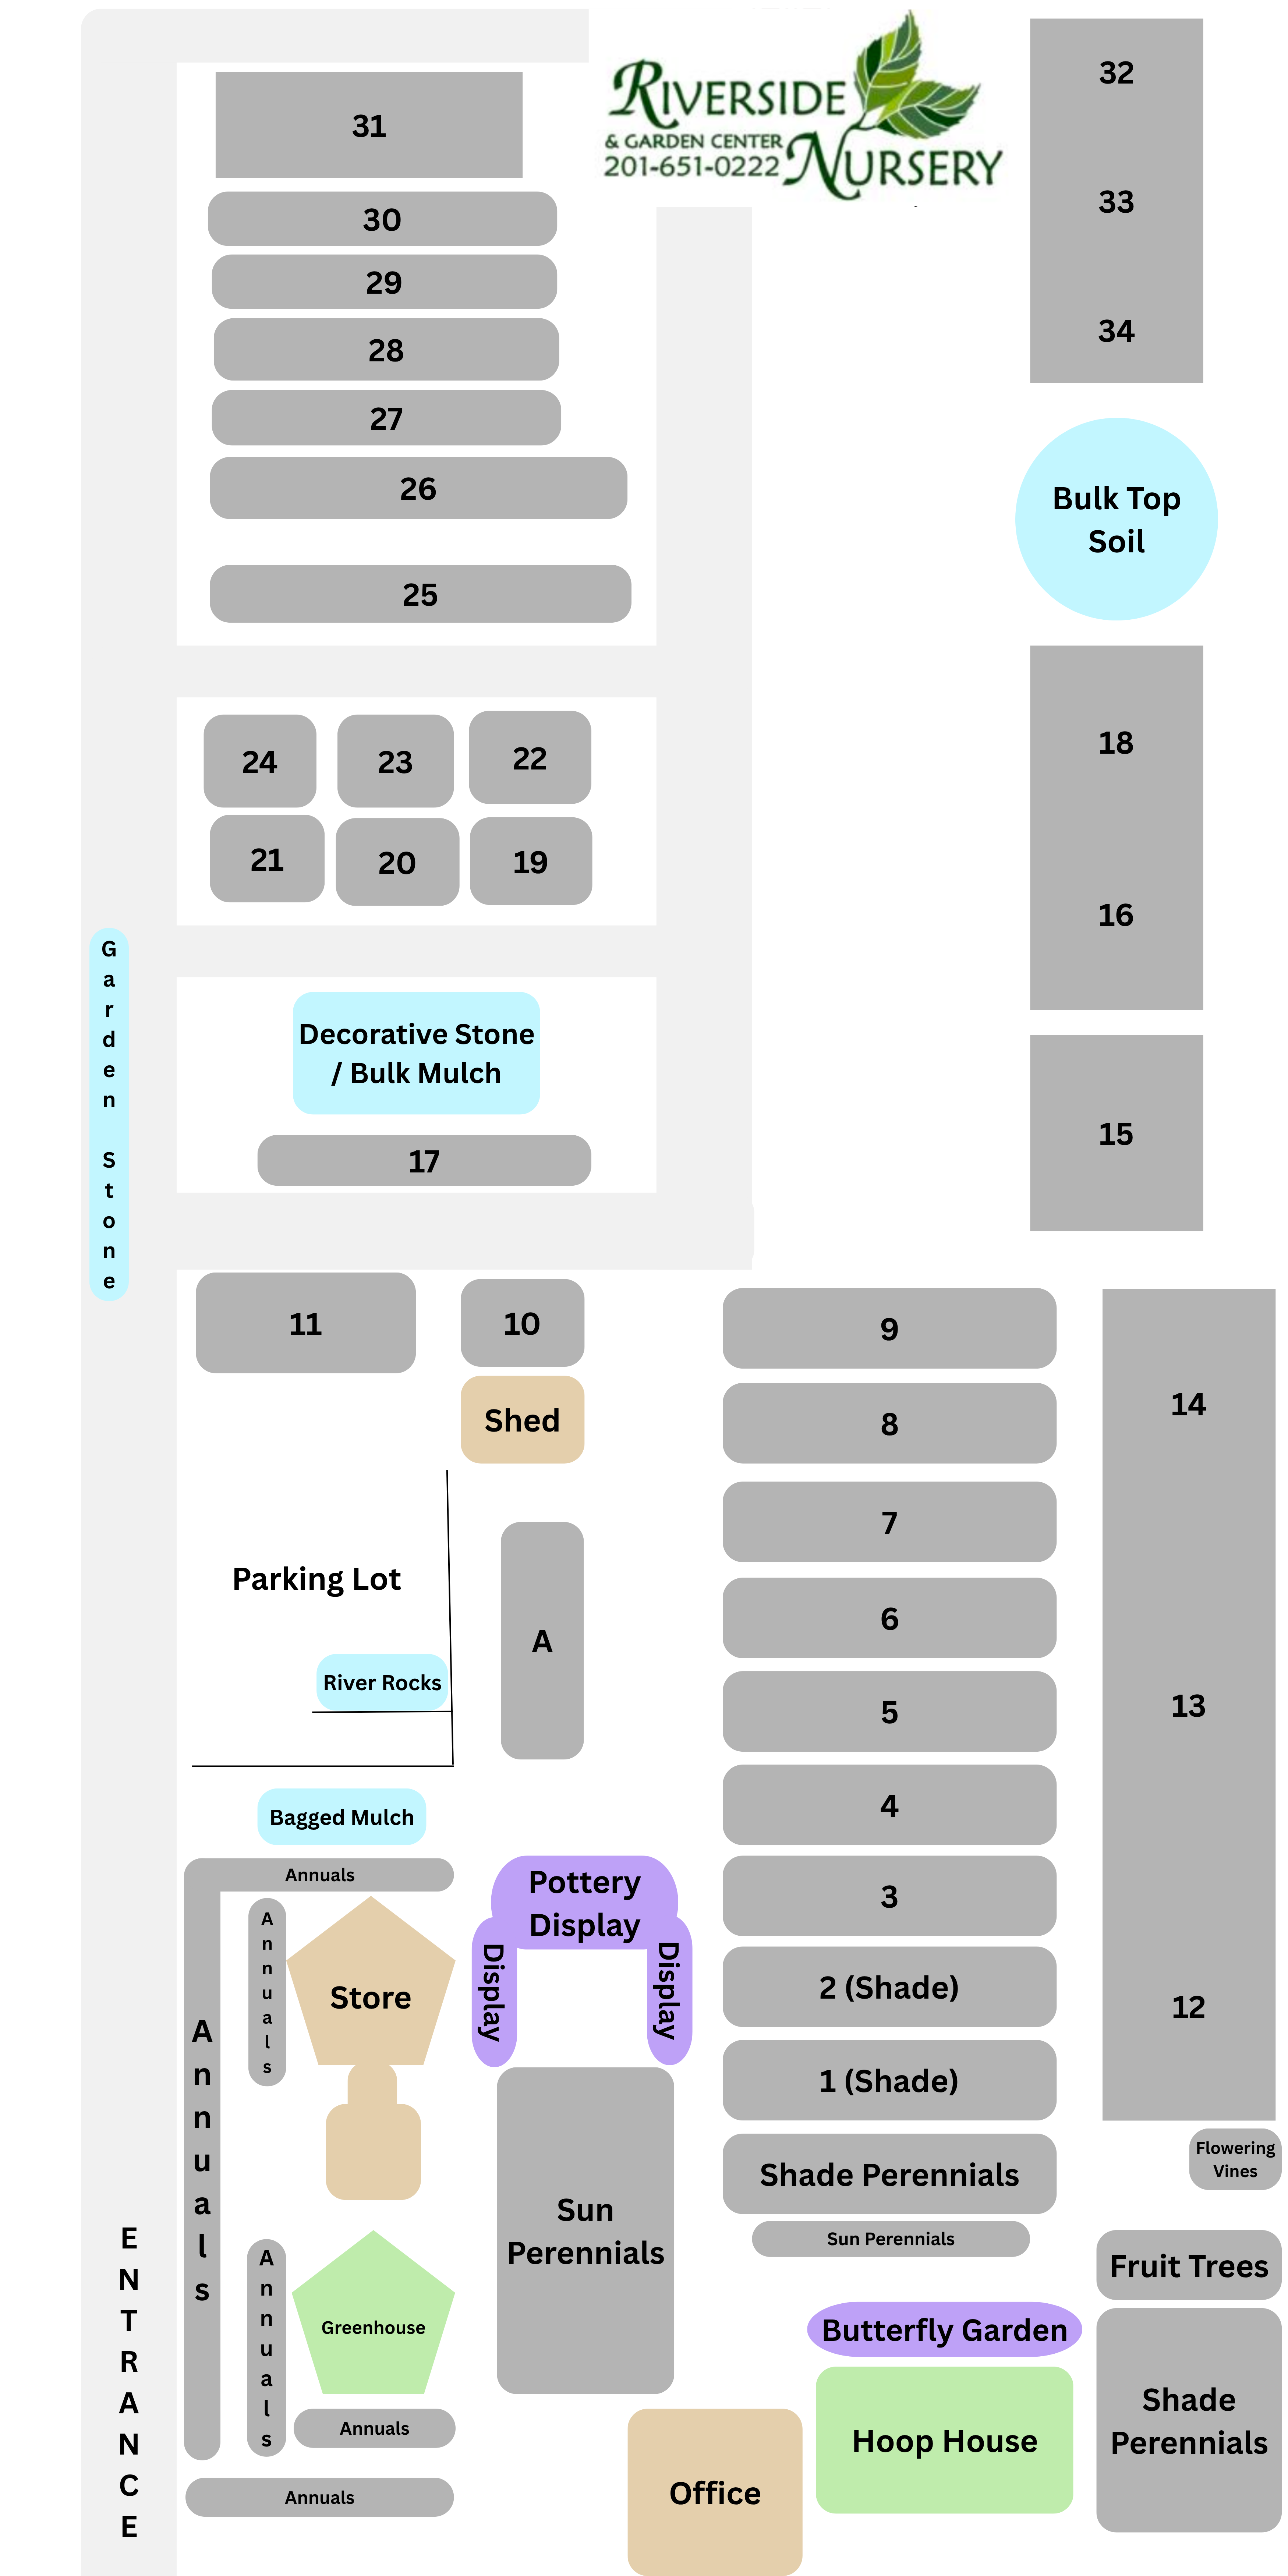
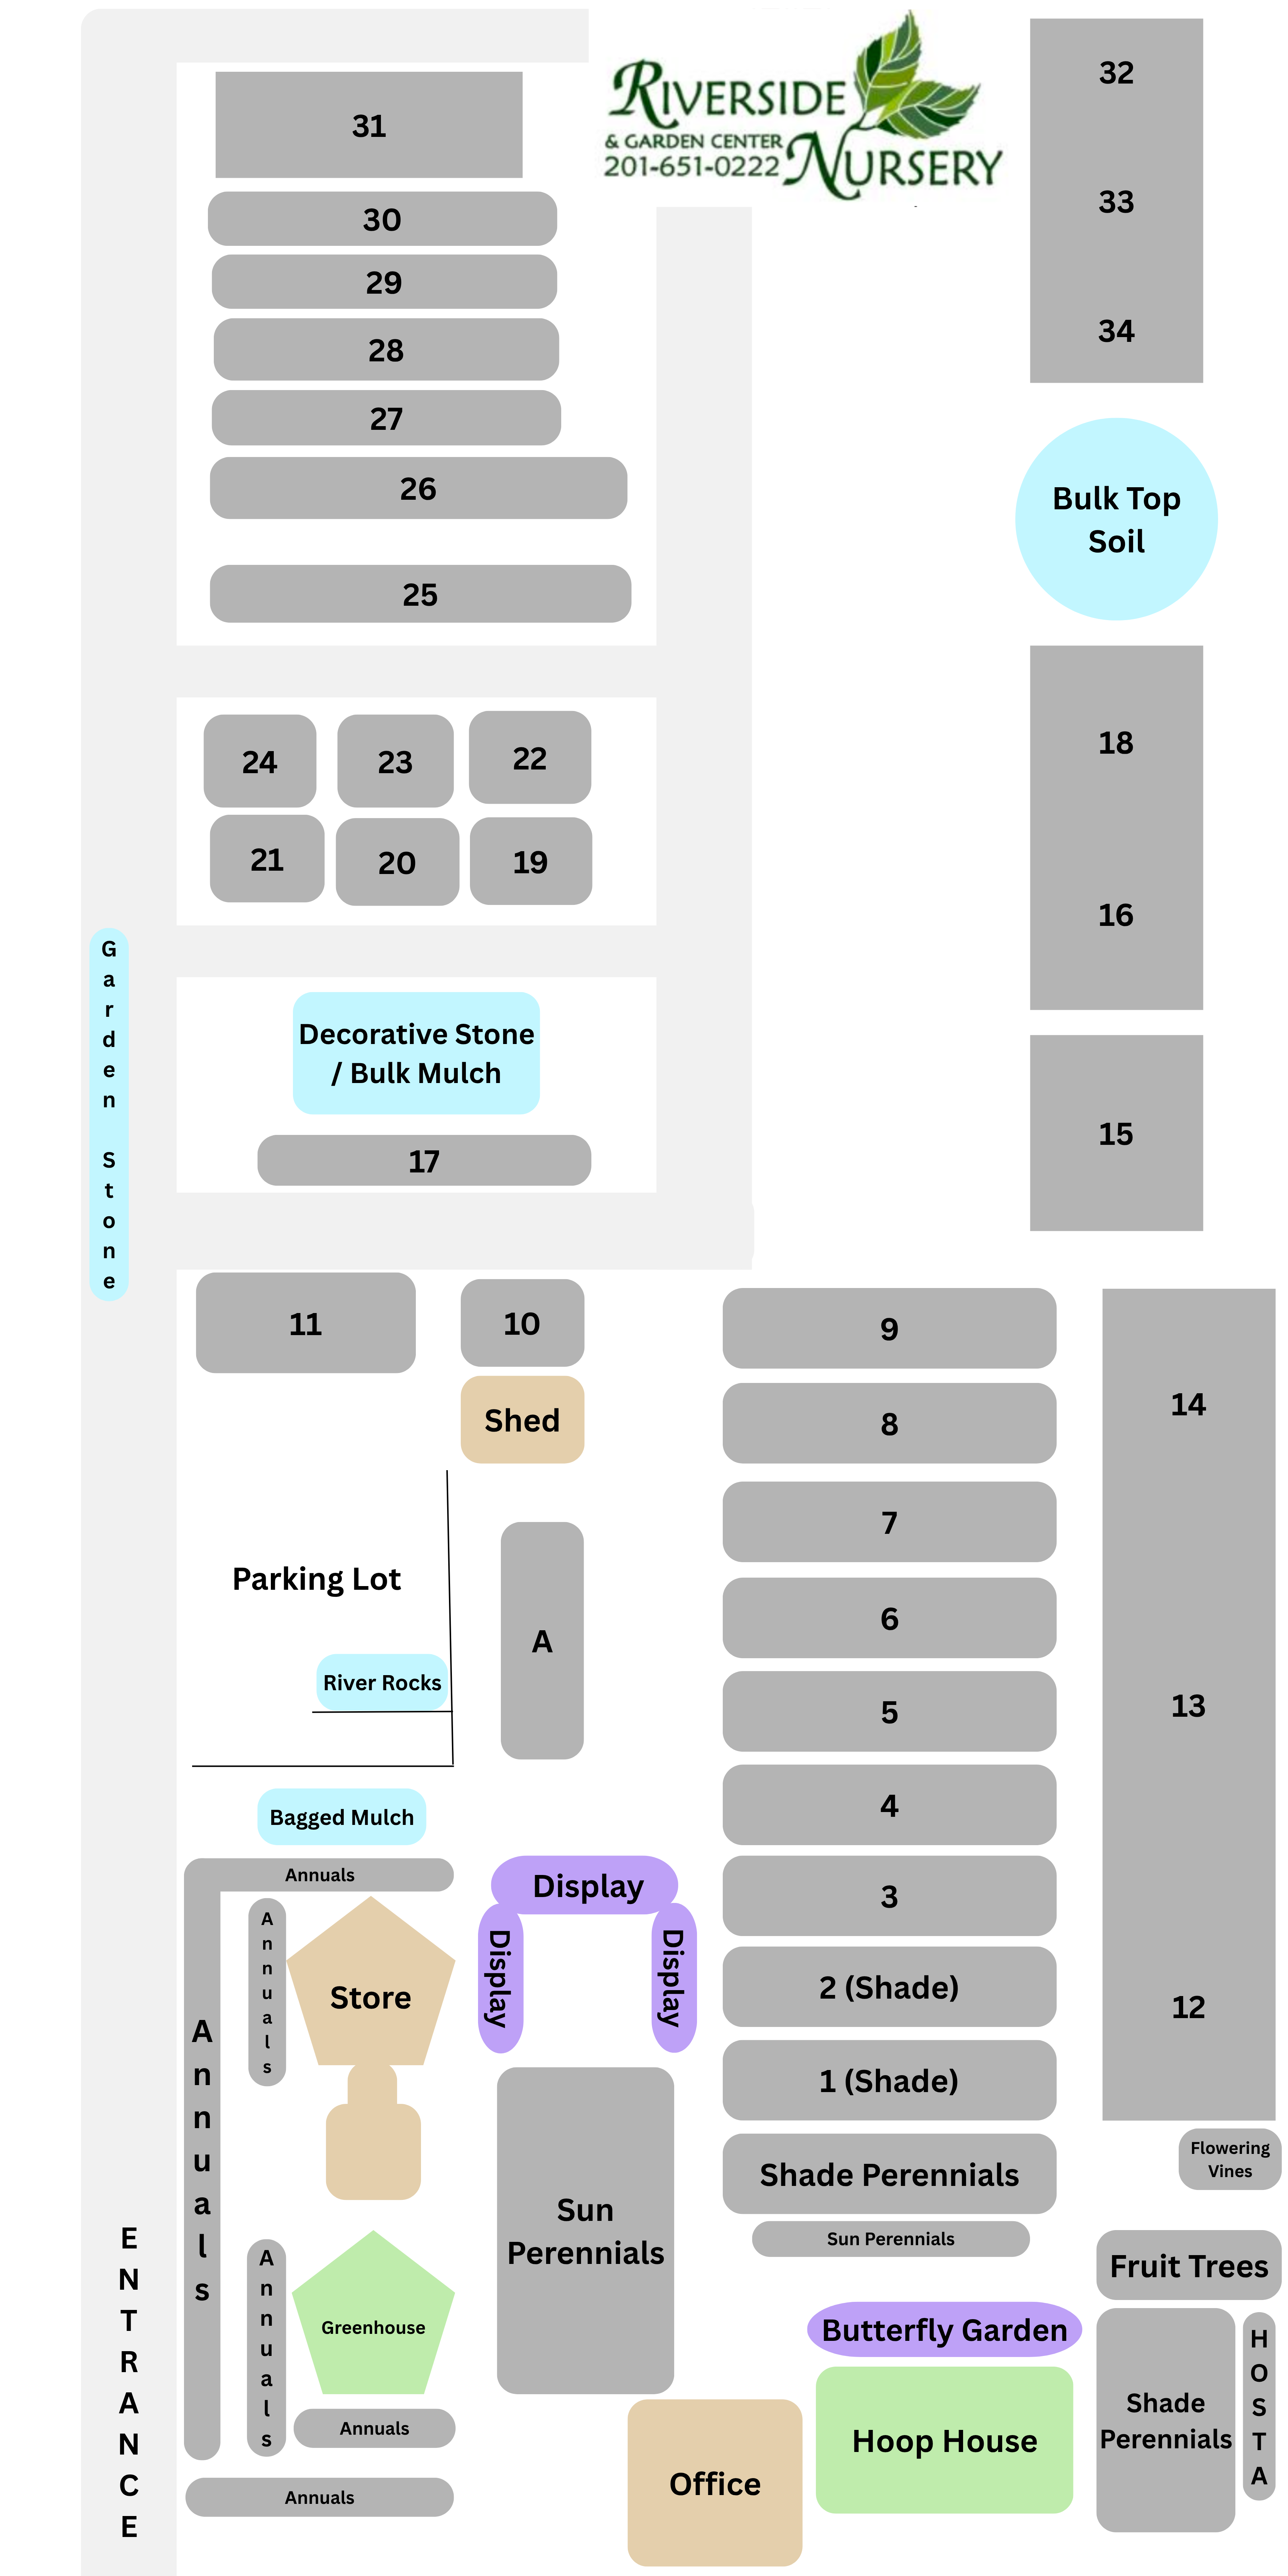
Add Flowering Vines section, sync mobile hotspots, visible hotspot overlays

diff --git a/src/App.js b/src/App.js
@@ -8,13 +8,13 @@ const gardenData = {
   "Section A": ["Knockout Rose", "Drift Rose", "Carpet Rose", "Microbiota", "Juniper"],
   "Section 1": ["Hydrangea", "Annabelle Hydrangea", "Oakleaf Hydrangea", "Aucuba", "Manhattan Euonymus", "Red Twig Dogwood"],
   "Section 2": ["Panicle Hydrangea"],
-  "Section 3": ["Gold Mop", "Rose of Sharon", "Weeping Pussy Willow", "Hypericum", "Lilac Tree", "Dwarf River Birch", "Ninebark", "Daphne", "Potentilla", "Itea", "Caryopteris", "Flowering Quince", "Butterfly Bush", "Weigela", "Buckthorn", "Calycanthus"],
-  "Section 4": ["Leucothoe", "Deutzia", "Callicarpa", "Burning Bush", "Aronia", "Itea", "Abelia", "Salix Hakuro Nishiki", "Sage Leaf Willow", "Smoketree", "Osmanthus", "Lilac", "Fothergilla", "Yucca", "Cotoneaster", "Clethra"],
+  "Section 3": ["Gold Mop", "Rose of Sharon", "Weeping Pussy Willow", "Hypericum", "Lilac Tree", "Dwarf River Birch", "Ninebark", "Daphne", "Potentilla", "Sweetspire", "Caryopteris", "Flowering Quince", "Butterfly Bush", "Weigela", "Buckthorn", "Sweetshrub"],
+  "Section 4": ["Leucothoe", "Deutzia", "Beautyberry", "Burning Bush", "Chokeberry", "Sweetspire", "Abelia", "Salix Hakuro Nishiki", "Sage Leaf Willow", "Smokebush", "Osmanthus", "Lilac", "Fothergilla", "Yucca", "Cotoneaster", "Clethra"],
   "Section 5": ["Rhododendron", "PJM Rhododendron", "Andromeda"],
-  "Section 6": ["Azalea", "Andromeda", "Mountain Laurel", "Dwarf Evergreens", "Topiary", "Dwarf Cedar", "Dwarf White Pine", "Smoketree"],
+  "Section 6": ["Azalea", "Andromeda", "Mountain Laurel", "Dwarf Evergreens", "Topiary", "Dwarf Cedar", "Dwarf White Pine", "Smokebush"],
   "Section 7": ["Globosa", "Dwarf Evergreens", "Holly", "Birds Nest Spruce"],
   "Section 8": ["Allium", "Catmint", "Weeping Japanese Maple", "Fountain Grass", "Karl Foerster", "Blue Fescue", "Vinca Bowles"],
-  "Section 9": ["Miscanthus", "Karl Foerster", "Carex EverGold", "Stella Doro Daylily", "Liriope", "Vinca Bowles"],
+  "Section 9": ["Miscanthus", "Karl Foerster", "Carex EverGold", "Stella d'Oro Daylily", "Liriope", "Vinca Bowles"],
   "Section 10": ["Spirea"],
   "Section 11": ["Barberry", "Boxwood"],
   "Section 12": ["Silver Fir", "Weeping Blue Atlas Cedar", "Weeping Norway Spruce", "Weeping Serbian Spruce", "Columnar Blue Spruce"],
@@ -26,11 +26,11 @@ const gardenData = {
   "Section 18": ["Upright Juniper", "Crabapple", "Forsythia", "Panicle Hydrangea"],
   "Section 19": ["Witch Hazel", "Holly", "Rose of Sharon", "Lilac", "Serviceberry", "Crape Myrtle"],
   "Section 20": ["Fringe Tree", "Weeping Cherry", "Bloodgood", "Redbud", "Cryptomeria", "Hornbeam", "Sweetgum", "Columnar Oak", "Dawn Redwood"],
-  "Section 21": ["Heptacodium", "Zelkova", "Japanese Maple"],
-  "Section 22": ["Upright Juniper", "Alaskan Cedar", "Florida Dogwood", "Kousa Dogwood"],
-  "Section 23": ["Kousa Dogwood", "Stewartia", "Styrax", "Florida Dogwood", "Single Stem Southern Magnolia", "Zelkova", "Magnolia", "Parrotia"],
+  "Section 21": ["Seven Son Flower", "Zelkova", "Japanese Maple"],
+  "Section 22": ["Upright Juniper", "Alaskan Cedar", "Flowering Dogwood", "Kousa Dogwood"],
+  "Section 23": ["Kousa Dogwood", "Stewartia", "Japanese Snowbell", "Flowering Dogwood", "Single Stem Southern Magnolia", "Zelkova", "Magnolia", "Persian Ironwood"],
   "Section 24": ["Black Gum", "Zelkova", "Linden", "Crape Myrtle", "Redbud", "Tree Lilac", "Japanese Maple"],
-  "Section 25": ["Common Boxwood", "Otto Luyken", "Upright Red Oak", "Burning Bush", "Schip Laurels"],
+  "Section 25": ["Common Boxwood", "Otto Luyken", "Upright Red Oak", "Burning Bush", "Skip Laurel"],
   "Section 26": ["Green Giants", "Emerald Green Arborvitae"],
   "Section 27": ["Snow Goose Cherry", "Hawthorn", "Maple", "Bloodgood", "Beech", "Shade Maple", "Pear", "Birch"],
   "Section 28": ["Kwanzan Cherry", "Okame Cherry", "Yoshino Cherry"],
@@ -40,6 +40,7 @@ const gardenData = {
   "Section 32": ["Green Giants"],
   "Section 33": ["Green Giants", "Leyland Cypress"],
   "Section 34": ["Green Giants", "Leyland Cypress", "Viburnum"],
+  "Flowering Vines": ["Climbing Hydrangea", "Wisteria", "Clematis"],
   "Fruit Trees": ["Apple", "Pear", "Persimmon", "Blueberry"],
   "Butterfly Garden": [],
 };
@@ -57,6 +58,7 @@ const hotspots = [
   { id: "Section 10", left: "36%", top: "50%", width: "9%", height: "2%" },
   { id: "Section 11", left: "16%", top: "49%", width: "15%", height: "4%" },
   { id: "Section 12", left: "88%", top: "73%", width: "9%", height: "9%" },
+  { id: "Flowering Vines", left: "88%", top: "82%", width: "9%", height: "3%" },
   { id: "Section 13", left: "88%", top: "63%", width: "9%", height: "9%" },
   { id: "Section 14", left: "88%", top: "51%", width: "9%", height: "11%" },
   { id: "Section 15", left: "80%", top: "40%", width: "13%", height: "8%" },
@@ -85,23 +87,24 @@ const hotspots = [
 ];
 
 const mobileHotspots = [
-  { id: "Section 1", left: "57%", top: "79%", width: "25%", height: "3%" },
-  { id: "Section 2", left: "57%", top: "75.5%", width: "25%", height: "3%" },
-  { id: "Section 3", left: "57%", top: "72%", width: "25%", height: "3%" },
+  { id: "Section 1", left: "57%", top: "79.5%", width: "25%", height: "3%" },
+  { id: "Section 2", left: "57%", top: "76%", width: "25%", height: "3%" },
+  { id: "Section 3", left: "57%", top: "72.5%", width: "25%", height: "3%" },
   { id: "Section 4", left: "57%", top: "69%", width: "25%", height: "3%" },
   { id: "Section 5", left: "57%", top: "65%", width: "25%", height: "3%" },
-  { id: "Section 6", left: "57%", top: "61%", width: "25%", height: "3%" },
+  { id: "Section 6", left: "57%", top: "61.5%", width: "25%", height: "3%" },
   { id: "Section 7", left: "57%", top: "58%", width: "25%", height: "3%" },
   { id: "Section 8", left: "57%", top: "54%", width: "25%", height: "3%" },
-  { id: "Section 9", left: "57%", top: "50%", width: "25%", height: "3%" },
+  { id: "Section 9", left: "57%", top: "50.5%", width: "25%", height: "3%" },
   { id: "Section 10", left: "36%", top: "50%", width: "9%", height: "3%" },
-  { id: "Section 11", left: "16%", top: "50%", width: "15%", height: "3%" },
+  { id: "Section 11", left: "16%", top: "49%", width: "15%", height: "4%" },
   { id: "Section 12", left: "88%", top: "73%", width: "9%", height: "9%" },
+  { id: "Flowering Vines", left: "92%", top: "83%", width: "7%", height: "3%" },
   { id: "Section 13", left: "88%", top: "63%", width: "9%", height: "9%" },
   { id: "Section 14", left: "88%", top: "51%", width: "9%", height: "11%" },
   { id: "Section 15", left: "80%", top: "40%", width: "13%", height: "8%" },
   { id: "Section 16", left: "80%", top: "32%", width: "13%", height: "7%" },
-  { id: "Section 17", left: "21%", top: "44%", width: "22%", height: "2%" },
+  { id: "Section 17", left: "21%", top: "44%", width: "22%", height: "3%" },
   { id: "Section 18", left: "80%", top: "26%", width: "13%", height: "5%" },
   { id: "Section 19", left: "37%", top: "32%", width: "8%", height: "3%" },
   { id: "Section 20", left: "27%", top: "32%", width: "8%", height: "3%" },
@@ -109,56 +112,80 @@ const mobileHotspots = [
   { id: "Section 22", left: "37%", top: "28%", width: "8%", height: "3%" },
   { id: "Section 23", left: "27%", top: "28%", width: "8%", height: "3%" },
   { id: "Section 24", left: "16%", top: "28%", width: "8%", height: "3%" },
-  { id: "Section 25", left: "17%", top: "22%", width: "32%", height: "2%" },
-  { id: "Section 26", left: "17%", top: "18%", width: "30%", height: "2%" },
-  { id: "Section 27", left: "17%", top: "15%", width: "26%", height: "2%" },
-  { id: "Section 28", left: "17%", top: "12.5%", width: "26%", height: "2%" },
-  { id: "Section 29", left: "17%", top: "10%", width: "26%", height: "2%" },
-  { id: "Section 30", left: "17%", top: "7.5%", width: "26%", height: "2%" },
+  { id: "Section 25", left: "17%", top: "22%", width: "32%", height: "3%" },
+  { id: "Section 26", left: "17%", top: "18%", width: "30%", height: "3%" },
+  { id: "Section 27", left: "17%", top: "15.5%", width: "26%", height: "2%" },
+  { id: "Section 28", left: "17%", top: "13%", width: "26%", height: "2%" },
+  { id: "Section 29", left: "17%", top: "10.5%", width: "26%", height: "2%" },
+  { id: "Section 30", left: "17%", top: "8%", width: "26%", height: "2%" },
   { id: "Section 31", left: "17.5%", top: "3%", width: "23%", height: "4%" },
   { id: "Section 32", left: "80%", top: "1%", width: "13%", height: "4%" },
   { id: "Section 33", left: "80%", top: "6%", width: "13%", height: "4%" },
   { id: "Section 34", left: "80%", top: "10.5%", width: "13%", height: "4%" },
   { id: "Section A", left: "39.5%", top: "60%", width: "5.5%", height: "8%" },
-  { id: "Fruit Trees", left: "86%", top: "84%", width: "12%", height: "3%" },
-  { id: "Butterfly Garden", left: "57%", top: "83%", width: "25%", height: "3%" },
+  { id: "Fruit Trees", left: "86%", top: "86.5%", width: "12%", height: "3%" },
+  { id: "Butterfly Garden", left: "63%", top: "89.5%", width: "20%", height: "3%" },
 ];
 
-function matchPlantNames(plantName, gardenPlantName) {
-  const pLower = plantName.toLowerCase();
-  const gLower = gardenPlantName.toLowerCase();
-  const pWords = pLower.split(/\s+/);
-  const gWords = gLower.split(/\s+/);
+// Generic names that must not fuzzy-match MORE SPECIFIC variants when finding sections.
+// e.g. "Hydrangea" must not claim sections that belong only to "Panicle Hydrangea".
+// This only affects section-location lookup — search results are unaffected.
+const GENERIC_NAMES = new Set([
+  'hydrangea',
+  'dogwood',
+  'maple',
+  'cherry',
+  'juniper',
+  'spruce',
+  'redbud',
+  'lilac',
+  'boxwood',
+  'oak',
+  'laurel',
+  'rhododendron',
+  'rose',
+]);
 
+function matchPlantNames(plantName, gardenPlantName) {
+  const pLower = plantName.toLowerCase().trim();
+  const gLower = gardenPlantName.toLowerCase().trim();
+
+  // Exact match always wins
   if (pLower === gLower) return true;
-  if (pLower === gLower + 's' || pLower === gLower + 'es' || gLower === pLower + 's' || gLower === pLower + 'es') return true;
+
+  // Simple plural forms
+  if (pLower === gLower + 's' || pLower === gLower + 'es') return true;
+  if (gLower === pLower + 's' || gLower === pLower + 'es') return true;
+
+  // Match via shared database entry — same plant id = same plant
+  const plantEntry = getPlantByName(plantName);
+  const gardenEntry = getPlantByName(gardenPlantName);
+  if (plantEntry && gardenEntry && plantEntry.id === gardenEntry.id) return true;
+
+  // If the plant being looked up is a generic name, it must not absorb
+  // sections that belong to more specific variants.
+  // e.g. "Hydrangea" (generic) should NOT match "Panicle Hydrangea" in a section.
+  // But "Panicle Hydrangea" (specific) CAN match "Panicle Hydrangea" in a section.
+  if (GENERIC_NAMES.has(pLower) && gLower !== pLower) return false;
+  if (GENERIC_NAMES.has(gLower) && pLower !== gLower) return false;
+
+  // Normalize spaces and hyphens
+  const pNoSpace = pLower.replace(/[\s-]+/g, '');
+  const gNoSpace = gLower.replace(/[\s-]+/g, '');
+  if (pNoSpace === gNoSpace) return true;
+  if (pNoSpace === gNoSpace + 's' || gNoSpace === pNoSpace + 's') return true;
+
+  // One fully contains the other
   if (gLower.includes(pLower) || pLower.includes(gLower)) return true;
 
-  const pNoSpace = pLower.replace(/\s+/g, '').replace(/-/g, '');
-  const gNoSpace = gLower.replace(/\s+/g, '').replace(/-/g, '');
-  if (pNoSpace === gNoSpace || pNoSpace === gNoSpace + 's' || gNoSpace === pNoSpace + 's') return true;
-
-  const plantEntry = getPlantByName(plantName);
-  if (plantEntry && plantEntry.scientific_name) {
-    const scientificLower = plantEntry.scientific_name.toLowerCase();
-    const scientificGenus = scientificLower.split(' ')[0];
-    if (gLower === scientificLower || scientificLower.includes(gLower) || gLower.includes(scientificLower)) return true;
-    if (gLower === scientificGenus || gLower.includes(scientificGenus) || scientificGenus.includes(gLower)) return true;
-  }
-
-  const gardenPlantEntry = getPlantByName(gardenPlantName);
-  if (gardenPlantEntry && gardenPlantEntry.scientific_name) {
-    const scientificLower = gardenPlantEntry.scientific_name.toLowerCase();
-    const scientificGenus = scientificLower.split(' ')[0];
-    if (pLower === scientificLower || scientificLower.includes(pLower) || pLower.includes(scientificLower)) return true;
-    if (pLower === scientificGenus || pLower.includes(scientificGenus) || scientificGenus.includes(pLower)) return true;
-  }
-
-  const pSignificant = pWords.filter(w => w.length > 2);
-  const gSignificant = gWords.filter(w => w.length > 2);
-  if (pSignificant.length >= 2 && gSignificant.length >= 2) {
-    const matches = pSignificant.filter(pw => gSignificant.some(gw => gw === pw || gw === pw + 's' || pw === gw + 's' || gw.includes(pw) || pw.includes(gw)));
-    if (matches.length >= Math.min(pSignificant.length, gSignificant.length, 2)) return true;
+  // Multi-word: all significant words of the shorter name appear in the longer
+  const pWords = pLower.split(/\s+/).filter(w => w.length > 2);
+  const gWords = gLower.split(/\s+/).filter(w => w.length > 2);
+  if (pWords.length >= 2 && gWords.length >= 2) {
+    const shorter = pWords.length <= gWords.length ? pWords : gWords;
+    const longer  = pWords.length <= gWords.length ? gWords : pWords;
+    const allMatch = shorter.every(sw => longer.some(lw => lw === sw || lw === sw + 's' || sw === lw + 's'));
+    if (allMatch) return true;
   }
 
   return false;
@@ -469,9 +496,37 @@ function App() {
                 key={h.id}
                 onClick={() => { setSelected(h.id); setPlantInfo(null); setPlantError(null); setShowSearch(false); setShowSidebar(false); }}
                 title={h.id}
-                className={`touch-manipulation ${!isMobile ? 'hover:bg-sky-100/30 hover:border hover:border-sky-400/50' : ''}`}
-                style={{ position: "absolute", left: h.left, top: h.top, width: h.width, height: h.height, border: "none", borderRadius: 8, background: "transparent", cursor: "pointer", minWidth: window.innerWidth < 768 ? "0px" : "44px", minHeight: window.innerWidth < 768 ? "0px" : "44px" }}
-              />
+                className="touch-manipulation"
+                style={{
+                  position: "absolute",
+                  left: h.left,
+                  top: h.top,
+                  width: h.width,
+                  height: h.height,
+                  border: "2px solid rgba(14, 165, 233, 0.8)",
+                  borderRadius: 4,
+                  background: "rgba(14, 165, 233, 0.15)",
+                  cursor: "pointer",
+                  minWidth: window.innerWidth < 768 ? "0px" : "44px",
+                  minHeight: "18px",
+                  display: "flex",
+                  alignItems: "center",
+                  justifyContent: "center",
+                  overflow: "hidden",
+                }}
+              >
+                <span style={{
+                  fontSize: "9px",
+                  fontWeight: "700",
+                  color: "rgba(7, 89, 133, 0.9)",
+                  pointerEvents: "none",
+                  whiteSpace: "nowrap",
+                  textShadow: "0 0 3px white, 0 0 3px white",
+                  lineHeight: 1,
+                }}>
+                  {h.id}
+                </span>
+              </button>
             ))}
           </div>
         </div>

diff --git a/src/plantDatabase.js b/src/plantDatabase.js
@@ -6396,7 +6396,26 @@ export const plantDatabase = {
     native_status: "Introduced",
     native_region: "Native to China and Japan"
   },
-
+"skip laurel": {
+    id: "local_schip_laurels",
+    name: "Skip Laurel",
+    scientific_name: "Prunus laurocerasus 'Schipkaensis'",
+    family: "Rosaceae",
+    description: "Evergreen shrub with glossy leaves. Excellent for hedges and screens. Very hardy and deer resistant. Also called Schip Laurel.",
+    type: "Shrub",
+    cycle: "Perennial",
+    watering: "Average",
+    sunlight: "Full sun, Part shade",
+    care_level: "Low",
+    growth_rate: "Fast",
+    flowering_season: "Spring",
+    attracts: "Birds, Bees",
+    maintenance: "Low",
+    deer_resistance: "A",
+    deer_resistance_note: "Rarely damaged - toxic",
+    native_status: "Introduced",
+    native_region: "Cultivar of species native to southeastern Europe and Asia Minor"
+  },
   "crape myrtle": {
     id: "local_crapemyrtle",
     name: "Crape Myrtle",
@@ -6438,7 +6457,108 @@ export const plantDatabase = {
     native_status: "Introduced",
     native_region: "Cultivar of species native to Asia"
   },
-
+ "stella d'oro daylily": {
+    id: "local_daylily",
+    name: "Stella d'Oro Daylily",
+    scientific_name: "Hemerocallis 'Stella de Oro'",
+    family: "Asphodelaceae",
+    description: "One of the most popular daylilies, with golden-yellow flowers that rebloom reliably from early summer through fall. Compact habit perfect for edging and mass plantings.",
+    type: "Perennial",
+    cycle: "Perennial",
+    watering: "Average",
+    sunlight: "Full sun, Part shade",
+    care_level: "Low",
+    growth_rate: "Fast",
+    flowering_season: "Summer, Fall",
+    attracts: "Butterflies, Hummingbirds",
+    maintenance: "Low",
+    deer_resistance: "C",
+    deer_resistance_note: "Occasionally severely damaged",
+    native_status: "Introduced",
+    native_region: "Cultivar; Hemerocallis native to Asia"
+  },
+ 
+  "flowering dogwood": {
+    id: "local_dogwood",
+    name: "Flowering Dogwood",
+    scientific_name: "Cornus florida",
+    family: "Cornaceae",
+    description: "Beloved native flowering tree with large white or pink bracts in spring, brilliant red fall color, and red berries that attract birds.",
+    type: "Tree",
+    cycle: "Perennial",
+    watering: "Average",
+    sunlight: "Part shade, Full sun",
+    care_level: "Medium",
+    growth_rate: "Slow",
+    flowering_season: "Spring",
+    attracts: "Birds, Butterflies",
+    maintenance: "Medium",
+    deer_resistance: "C",
+    deer_resistance_note: "Occasionally severely damaged",
+    native_status: "Native",
+    native_region: "Eastern United States"
+  },
+   "clematis": {
+    id: "local_clematis",
+    name: "Clematis",
+    scientific_name: "Clematis spp.",
+    family: "Ranunculaceae",
+    description: "The queen of climbing vines, with spectacular flowers ranging from small starry blooms to large dinner-plate-sized flowers in purple, pink, white, red, and bi-colors. Different varieties bloom in spring, summer, or fall. Works beautifully on trellises, fences, and arbors.",
+    type: "Perennial",
+    cycle: "Perennial",
+    watering: "Average",
+    sunlight: "Full sun, Part shade",
+    care_level: "Medium",
+    growth_rate: "Fast",
+    flowering_season: "Spring, Summer, Fall",
+    attracts: "Bees, Butterflies",
+    maintenance: "Medium",
+    deer_resistance: "B",
+    deer_resistance_note: "Seldom severely damaged",
+    native_status: "Varies",
+    native_region: "Many species native to North America, Europe, and Asia"
+  },
+  "persian ironwood": {
+    id: "local_parrotia",
+    name: "Persian Ironwood",
+    scientific_name: "Parrotia persica",
+    family: "Hamamelidaceae",
+    description: "Small to medium deciduous tree with spectacular multi-season interest: exfoliating bark, small red flowers in late winter, and stunning fall color. One of the finest small trees.",
+    type: "Tree",
+    cycle: "Perennial",
+    watering: "Average",
+    sunlight: "Full sun, Part shade",
+    care_level: "Low",
+    growth_rate: "Slow",
+    flowering_season: "Winter, Spring",
+    attracts: "Bees, Birds",
+    maintenance: "Low",
+    deer_resistance: "B",
+    deer_resistance_note: "Seldom severely damaged",
+    native_status: "Introduced",
+    native_region: "Native to northern Iran and Caucasus"
+  },
+ 
+  "carex evergold": {
+    id: "local_carex",
+    name: "EverGold Sedge",
+    scientific_name: "Carex oshimensis 'EverGold'",
+    family: "Cyperaceae",
+    description: "Striking variegated sedge with creamy-yellow centers and green-edged leaves. Evergreen, arching habit. One of the most eye-catching groundcovers for shade.",
+    type: "Perennial",
+    cycle: "Perennial",
+    watering: "Average",
+    sunlight: "Part shade, Full shade",
+    care_level: "Low",
+    growth_rate: "Medium",
+    flowering_season: "Spring",
+    attracts: "Birds",
+    maintenance: "Low",
+    deer_resistance: "A",
+    deer_resistance_note: "Rarely damaged",
+    native_status: "Introduced",
+    native_region: "Cultivar of species native to Japan"
+  },
   "plum yew cephalotaxus": {
     id: "local_small_plum_yew",
     name: "Plum Yew",